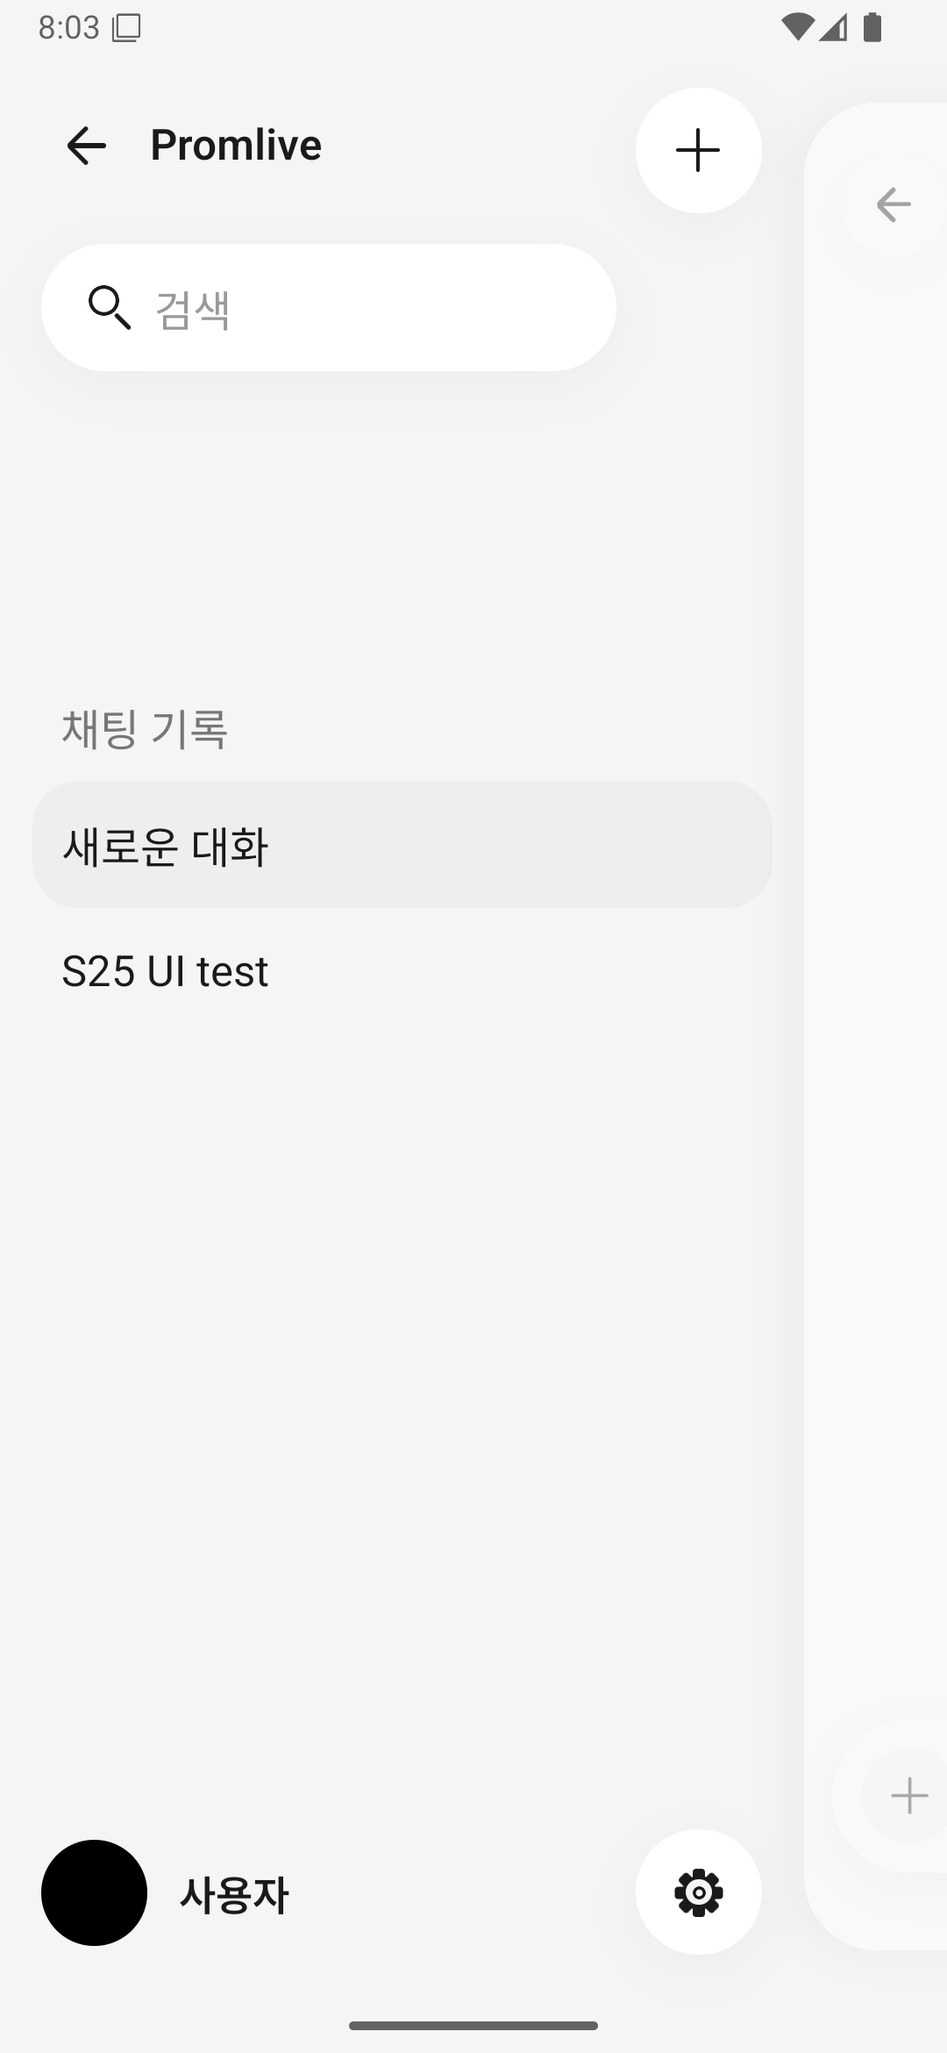
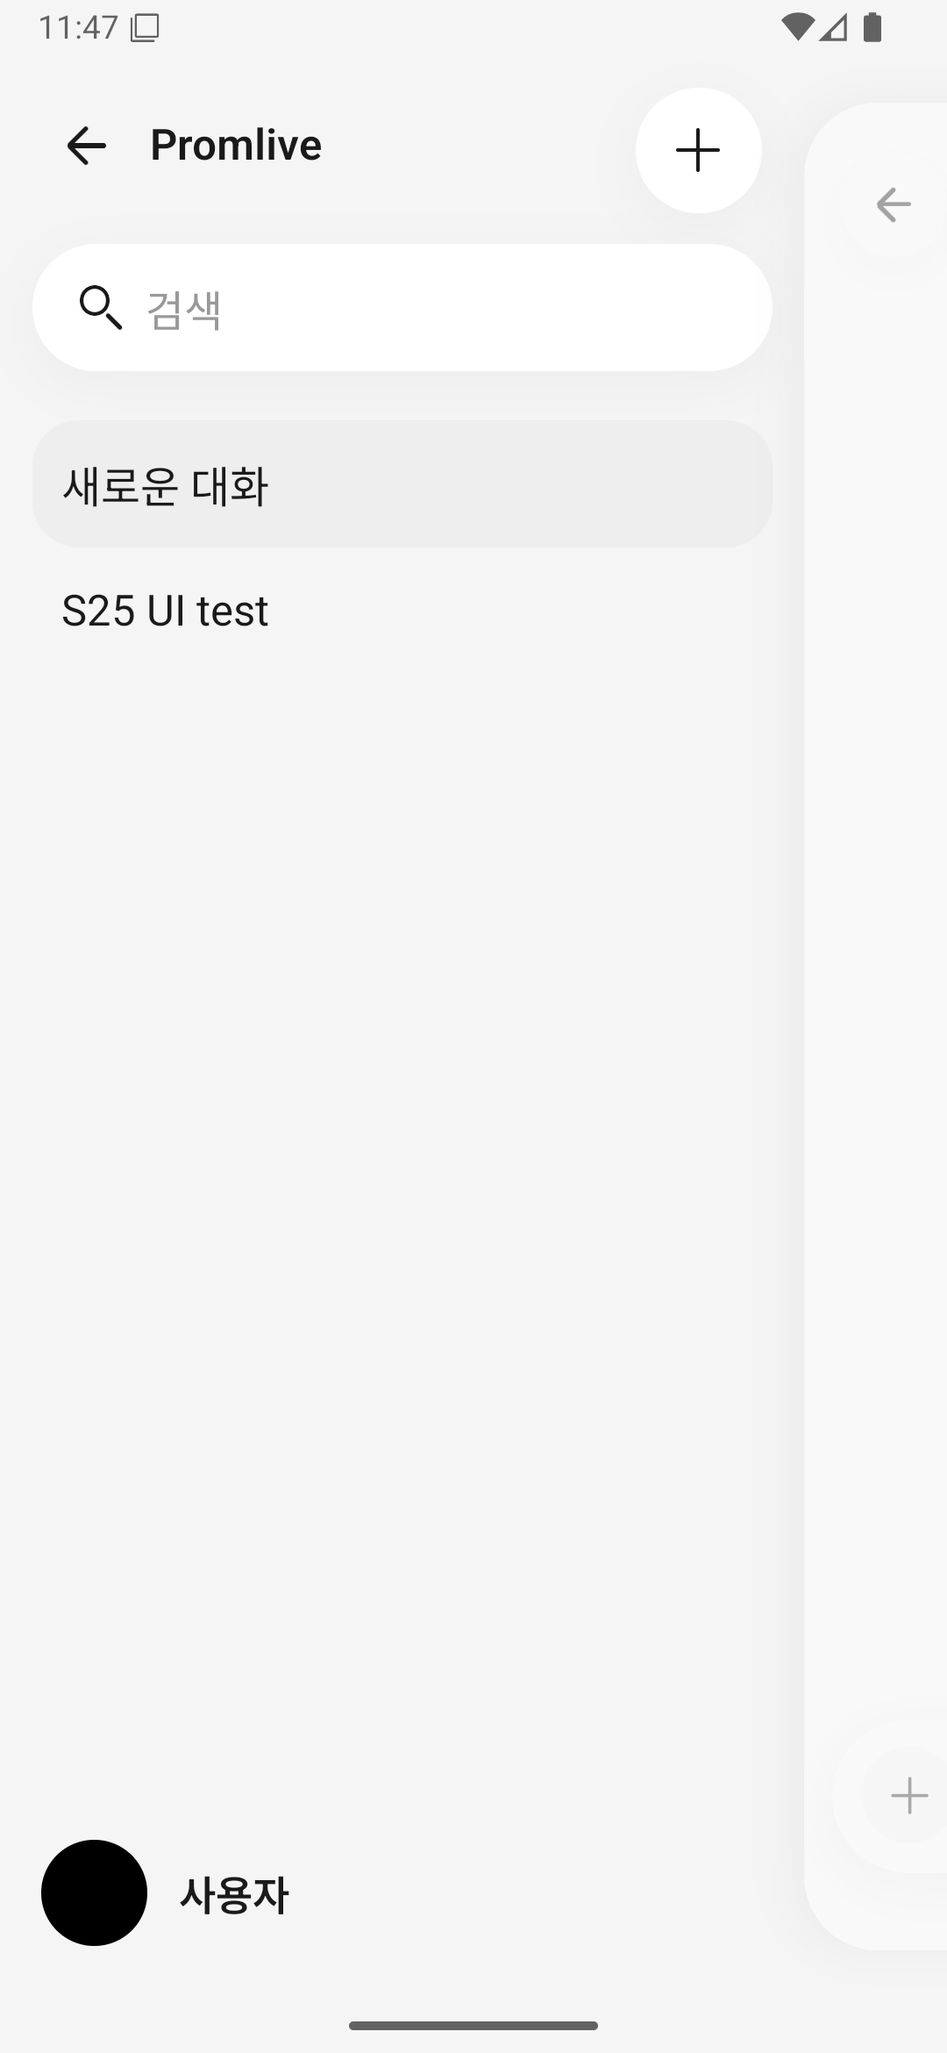
feat: refine sidebar and chat motion

diff --git a/storyloom/src/features/chat/ChatComposer.tsx b/storyloom/src/features/chat/ChatComposer.tsx
@@ -1,5 +1,5 @@
-import {useCallback, useState} from 'react';
-import {Pressable, Text, TextInput, View, useWindowDimensions} from 'react-native';
+import {useCallback, useEffect, useLayoutEffect, useRef, useState} from 'react';
+import {AccessibilityInfo, Animated, Pressable, Text, TextInput, View, useWindowDimensions} from 'react-native';
 import {SafeAreaView} from 'react-native-safe-area-context';
 import {ChatIcon, type ChatIconName} from './ChatIcon';
 import {ComposerInput} from './ComposerInput';
@@ -7,6 +7,7 @@ import {DrawerGestureBoundary} from './DrawerGestureBoundary';
 import {composerScale, referenceComposer as r} from './chatAppearance';
 import {useAppearance} from '../appearance/AppAppearance';
 import {SwipeBackBoundary, SwipeBackModal} from '../settings/SwipeBackModal';
+import {panelSpring} from './usePanelMotion';
 
 interface Props {
   value: string;
@@ -37,22 +38,50 @@ export function ChatComposer(p: Props) {
   const overflowing = filled && measured > inputHeight + 1;
   const expandable = filled && height >= maxHeight - 1;
   const button = r.button * s;
-  const actionBottom = filled ? 14 * s : (height - button) / 2;
+  const hasSend = filled || p.generating;
+  const [reduceMotion, setReduceMotion] = useState<boolean | null>(null);
+  const motion = useRef({
+    height: new Animated.Value(height),
+    input: new Animated.Value(inputHeight),
+    filled: new Animated.Value(filled ? 1 : 0),
+    send: new Animated.Value(hasSend ? 1 : 0),
+  }).current;
+  useEffect(() => {
+    let mounted = true;
+    void AccessibilityInfo.isReduceMotionEnabled().then(value => {if (mounted) setReduceMotion(value);});
+    const change = AccessibilityInfo.addEventListener('reduceMotionChanged', setReduceMotion);
+    return () => {mounted = false; change.remove();};
+  }, []);
+  useLayoutEffect(() => {
+    const targets: [Animated.Value, number][] = [[motion.height, height], [motion.input, inputHeight], [motion.filled, filled ? 1 : 0], [motion.send, hasSend ? 1 : 0]];
+    if (reduceMotion !== false || !p.ready) {
+      for (const [value, target] of targets) {value.stopAnimation(); value.setValue(target);}
+      return;
+    }
+    // Retarget from the current size as typing continues; the bottom edge stays fixed.
+    const animation = Animated.parallel(targets.map(([value, toValue]) => Animated.spring(value, {...panelSpring, toValue, useNativeDriver: false})));
+    animation.start();
+    return () => animation.stop();
+  }, [filled, hasSend, height, inputHeight, motion, p.ready, reduceMotion]);
+  const shape = (empty: number, full: number) => motion.filled.interpolate({inputRange: [0, 1], outputRange: [empty * s, full * s]});
+  const actionBottom = shape((r.compactHeight - r.button) / 2, 14);
   return <>
     <DrawerGestureBoundary><View style={{width: '100%', maxWidth: 800, alignSelf: 'center', paddingHorizontal: r.inset * s, paddingBottom: p.bottom + r.bottom * s}}>
-      <View testID="chat-composer" style={{height, borderRadius: (filled ? 40 : r.compactHeight / 2) * s, backgroundColor: c.composer, borderWidth: 1 * s, borderColor: c.border, boxShadow: isDark ? undefined : '0px 6px 26px rgba(0, 0, 0, 0.08)'}}>
-        <View style={{position: 'absolute', top: filled ? 25 * s : (height - line) / 2, left: (filled ? 26 : 116) * s, right: (filled ? expandable ? 76 : 26 : 116) * s}}>
+      <Animated.View testID="chat-composer" style={{height: motion.height, borderRadius: shape(r.compactHeight / 2, 40), overflow: 'hidden', backgroundColor: c.composer, borderWidth: 1 * s, borderColor: c.border, boxShadow: isDark ? undefined : '0px 6px 26px rgba(0, 0, 0, 0.08)'}}>
+        <Animated.View style={{position: 'absolute', height: motion.input, overflow: 'hidden', top: motion.filled.interpolate({inputRange: [0, 1], outputRange: [(r.compactHeight * s - line) / 2, 25 * s]}), left: (filled ? 26 : 116) * s, right: (filled ? expandable ? 76 : 26 : 116) * s, transform: [{translateX: shape(filled ? 90 : 0, filled ? 0 : -90)}]}}>
           <ComposerInput value={p.value} onChange={p.onChange} onFocus={() => {}} onHeight={reportHeight} fontSize={r.fontSize * s} lineHeight={r.lineHeight * s} height={inputHeight} scroll={overflowing} ready={p.ready}/>
-        </View>
+        </Animated.View>
         {expandable && <Pressable accessibilityRole="button" accessibilityLabel="입력창 크게 열기" hitSlop={8} onPress={() => setExpanded(true)} style={{position: 'absolute', top: 24 * s, right: 29 * s, padding: 3 * s}}><ChatIcon name="expand" size={25 * s} color="#707070"/></Pressable>}
-        <View style={{position: 'absolute', left: (filled ? 12 : 20) * s, bottom: actionBottom}}>
+        <Animated.View style={{position: 'absolute', left: shape(20, 12), bottom: actionBottom}}>
           <Circle label="첨부" icon="plus" size={button} iconSize={27 * s} onPress={() => p.onHint('첨부 기능은 아직 연결하지 않았어요.')}/>
-        </View>
-        <View style={{position: 'absolute', right: (filled ? 13 : 20) * s, bottom: actionBottom, flexDirection: 'row', gap: 13 * s}}>
+        </Animated.View>
+        <Animated.View style={{position: 'absolute', right: shape(20, 13), bottom: actionBottom, flexDirection: 'row'}}>
           <Circle label="음성 입력" icon="voice" size={button} iconSize={30 * s} onPress={() => p.onHint('음성 입력은 아직 연결하지 않았어요.')}/>
-          {(filled || p.generating) && <Circle label={p.generating ? '응답 중단' : '메시지 보내기'} icon={p.generating ? 'stop' : 'send'} size={button} iconSize={25 * s} bright disabled={p.sending || !p.ready || (!p.generating && !p.value.trim())} onPress={p.generating ? p.onCancel : p.onSend}/>}
-        </View>
-      </View>
+          <Animated.View pointerEvents={hasSend ? 'auto' : 'none'} aria-hidden={!hasSend} accessibilityElementsHidden={!hasSend} importantForAccessibility={hasSend ? 'auto' : 'no-hide-descendants'} style={{width: Animated.multiply(motion.send, button), marginLeft: Animated.multiply(motion.send, 13 * s), opacity: motion.send, overflow: 'hidden'}}>
+            <Circle label={p.generating ? '응답 중단' : '메시지 보내기'} icon={p.generating ? 'stop' : 'send'} size={button} iconSize={25 * s} bright disabled={p.sending || !p.ready || (!p.generating && !p.value.trim())} onPress={p.generating ? p.onCancel : p.onSend}/>
+          </Animated.View>
+        </Animated.View>
+      </Animated.View>
     </View></DrawerGestureBoundary>
     {expanded && <SwipeBackModal onClose={() => setExpanded(false)}>{close =>
       <SafeAreaView style={{flex: 1, backgroundColor: c.background, paddingHorizontal: 24}}>

diff --git a/storyloom/src/features/chat/ChatHistory.tsx b/storyloom/src/features/chat/ChatHistory.tsx
@@ -1,5 +1,5 @@
 import {useState} from 'react';
-import {FlatList, Keyboard, Pressable, Text, TextInput, View, useWindowDimensions} from 'react-native';
+import {FlatList, Keyboard, Pressable, Text, TextInput, View} from 'react-native';
 import {useSafeAreaInsets} from 'react-native-safe-area-context';
 import type {Workspace} from '../../app/workspace';
 import type {Card} from '../cards/model';
@@ -24,7 +24,6 @@ export function ChatHistory({workspace: w, width, card, selectedCardId, openCard
   const {colors: c, isDark} = useAppearance();
   const [search, setSearch] = useState('');
   const insets = useSafeAreaInsets();
-  const {height} = useWindowDimensions();
   const s = width / r.width;
   const query = search.trim().toLocaleLowerCase();
   const cards = w.cards.filter(item => !item.archived && `${item.title} ${item.description}`.toLocaleLowerCase().includes(query));
@@ -32,8 +31,7 @@ export function ChatHistory({workspace: w, width, card, selectedCardId, openCard
   const items = (card ? conversations : cards).map(item => ({id: item.id, title: item.title}));
   const selectedId = card ? w.conversation?.id : selectedCardId ?? w.conversation?.cardId;
   const shadow = isDark ? undefined : '0px 6px 24px rgba(0, 0, 0, 0.035)';
-  const availableHeight = height - insets.top - insets.bottom;
-  const listTop = Math.min(r.listTop * s, Math.max(245 * s, availableHeight - 300 * s));
+  const listTop = (r.searchTop + r.searchHeight + r.listGap) * s;
   const select = async (id: string) => {
     Keyboard.dismiss();
     if (!card) {
@@ -54,7 +52,7 @@ export function ChatHistory({workspace: w, width, card, selectedCardId, openCard
     <View style={{height: listTop}}>
       <View style={{position: 'absolute', left: r.textInset * s, top: r.headerTop * s, right: 28 * s, height: r.headerHeight * s, flexDirection: 'row', alignItems: 'center', gap: 18 * s}}>
         {card && <Pressable accessibilityRole="button" accessibilityLabel="카드 목록으로 돌아가기" onPress={backToCards} hitSlop={10} style={{width: 40 * s, height: 60 * s, justifyContent: 'center'}}><ChatIcon name="back" size={32 * s} color={c.text}/></Pressable>}
-        <Text accessibilityRole="header" numberOfLines={1} style={{flex: 1, color: c.text, fontSize: 28 * s, lineHeight: 37 * s, fontWeight: '600', includeFontPadding: false, marginRight: card ? 86 * s : 0}}>{card?.title ?? 'Promlive'}</Text>
+        <Text accessibilityRole="header" numberOfLines={1} style={{flex: 1, color: card ? c.text : c.brand, fontSize: (card ? r.fontSize : r.brandFontSize) * s, lineHeight: (card ? r.lineHeight : r.brandLineHeight) * s, fontWeight: card ? '600' : '800', letterSpacing: card ? 0 : -s, includeFontPadding: false, marginRight: card ? 86 * s : 0}}>{card?.title ?? 'Promlive'}</Text>
       </View>
       {card && <Pressable accessibilityRole="button" accessibilityLabel={`${card.title}에서 새 채팅`} onPress={() => {void start().catch(error => w.report(error));}} style={({pressed}) => ({position: 'absolute', left: r.actionLeft * s, top: r.headerTop * s, width: r.actionSize * s, height: r.actionSize * s, borderRadius: r.actionSize * s / 2, backgroundColor: c.search, opacity: pressed ? 0.6 : 1, boxShadow: shadow, alignItems: 'center', justifyContent: 'center'})}><ChatIcon name="plus" size={29 * s} color={c.text}/></Pressable>}
       <View style={{position: 'absolute', left: r.searchLeft * s, top: r.searchTop * s, width: r.searchWidth * s}}>
@@ -63,7 +61,6 @@ export function ChatHistory({workspace: w, width, card, selectedCardId, openCard
           <TextInput accessibilityLabel={card ? '이 카드의 채팅 검색' : '카드 검색'} value={search} onChangeText={setSearch} placeholder="검색" placeholderTextColor={c.placeholder} selectionColor="#3096EB" underlineColorAndroid="transparent" returnKeyType="search" style={{flex: 1, minWidth: 0, padding: 0, color: c.text, height: r.searchHeight * s, fontSize: 27 * s, includeFontPadding: false}}/>
         </View></DrawerGestureBoundary>
       </View>
-      <Text testID="sidebar-list-heading" style={{position: 'absolute', left: r.textInset * s, bottom: (r.listTop - r.labelTop - r.lineHeight) * s, color: c.muted, fontSize: r.fontSize * s, lineHeight: r.lineHeight * s, includeFontPadding: false}}>{card ? '채팅 기록' : '카드 목록'}</Text>
     </View>
     <FlatList
       testID={card ? 'card-conversation-list' : 'card-list'} data={items} keyExtractor={item => item.id} style={{flex: 1}}
@@ -75,11 +72,10 @@ export function ChatHistory({workspace: w, width, card, selectedCardId, openCard
       </Pressable>}
     />
     <View testID="sidebar-footer" style={{height: (r.footerHeight + r.footerBottom) * s}}>
-      <Pressable testID="sidebar-account" accessibilityRole="button" accessibilityLabel="사용자 계정" onPress={openSettings} style={({pressed}) => ({position: 'absolute', left: r.searchLeft * s, top: 0, width: r.searchWidth * s, height: r.footerHeight * s, flexDirection: 'row', alignItems: 'center', opacity: pressed ? 0.6 : 1})}>
+      <Pressable testID="sidebar-account" accessibilityRole="button" accessibilityLabel="사용자 계정" accessibilityHint="설정 열기" onPress={openSettings} style={({pressed}) => ({position: 'absolute', left: r.rowInset * s, right: r.rowInset * s, top: 0, height: r.footerHeight * s, paddingHorizontal: (r.accountAvatarLeft - r.rowInset) * s, flexDirection: 'row', alignItems: 'center', opacity: pressed ? 0.6 : 1})}>
         <View accessible={false} style={{width: r.avatar * s, height: r.avatar * s, borderRadius: r.avatar * s / 2, backgroundColor: '#000000'}}/>
-        <Text numberOfLines={1} style={{flex: 1, marginLeft: (r.accountNameLeft - r.searchLeft - r.avatar) * s, color: c.text, fontSize: 26 * s, lineHeight: 35 * s, fontWeight: '600', includeFontPadding: false}}>사용자</Text>
+        <Text numberOfLines={1} style={{flex: 1, marginLeft: (r.accountNameLeft - r.accountAvatarLeft - r.avatar) * s, color: c.text, fontSize: 26 * s, lineHeight: 35 * s, fontWeight: '600', includeFontPadding: false}}>사용자</Text>
       </Pressable>
-      <Pressable testID="sidebar-settings" accessibilityRole="button" accessibilityLabel="설정" onPress={openSettings} style={({pressed}) => ({position: 'absolute', left: r.actionLeft * s, top: 0, width: r.actionSize * s, height: r.actionSize * s, borderRadius: r.actionSize * s / 2, alignItems: 'center', justifyContent: 'center', backgroundColor: c.search, opacity: pressed ? 0.6 : 1, boxShadow: shadow})}><ChatIcon name="settings" size={31 * s} color={c.text}/></Pressable>
     </View>
   </View>;
 }

diff --git a/storyloom/src/features/chat/ChatDrawer.tsx b/storyloom/src/features/chat/ChatDrawer.tsx
@@ -7,7 +7,7 @@ import {useAppearance} from '../appearance/AppAppearance';
 import {drawerProgress, navigationPanel, shouldOpenDrawer, type NavigationPanel} from './drawerMotion';
 import {useScreenCorners} from './useScreenCorners';
 import {DrawerGestureGuard} from './DrawerGestureBoundary';
-import {referenceSidebar} from './chatAppearance';
+import {sidebarWidth} from './chatAppearance';
 import {usePanelMotion} from './usePanelMotion';
 
 const openScale = 0.90;
@@ -23,7 +23,7 @@ export function ChatDrawer({workspace, children, openSettings, active = true, po
 }) {
   const {colors: c, isDark} = useAppearance();
   const {width} = useWindowDimensions();
-  const drawerWidth = Math.min(width * referenceSidebar.width / referenceSidebar.viewportWidth, 400);
+  const drawerWidth = sidebarWidth(width);
   const corners = useScreenCorners();
   const [reduceMotion, setReduceMotion] = useState(false);
   const cards = usePanelMotion(reduceMotion);
@@ -143,15 +143,14 @@ export function ChatDrawer({workspace, children, openSettings, active = true, po
         ],
       }]}>
         <View style={styles.content} pointerEvents={cards.visible ? 'none' : 'auto'} aria-hidden={cards.visible} accessibilityElementsHidden={cards.visible} importantForAccessibility={cards.visible ? 'no-hide-descendants' : 'auto'}>
-          <Animated.View testID="chat-page" pointerEvents={pocket.visible ? 'none' : 'auto'} aria-hidden={pocket.visible} accessibilityElementsHidden={pocket.visible} importantForAccessibility={pocket.visible ? 'no-hide-descendants' : 'auto'} style={[styles.panel, {backgroundColor: c.background,
+          <Animated.View testID="chat-pocket-pages" style={[styles.pages, {width: pocketEnabled ? width * 2 : width, backgroundColor: c.background,
             borderTopLeftRadius: pageRadius(corners.topLeft), borderTopRightRadius: pageRadius(corners.topRight), borderBottomLeftRadius: pageRadius(corners.bottomLeft), borderBottomRightRadius: pageRadius(corners.bottomRight),
             transform: [{translateX: Animated.multiply(pocket.progress, -width)}],
-          }]}>{children(openCards)}</Animated.View>
-          {pocketEnabled && pocket.visible && <Animated.View testID="pocket-page" accessible accessibilityLabel={`${activeCard?.title ?? '현재 카드'} 포켓`} accessibilityHint="오른쪽으로 밀면 채팅으로 돌아갑니다." onAccessibilityEscape={() => pocket.settle(false)} style={[styles.panel, {backgroundColor: c.background,
-            // Mirror the chat's edge curves, including asymmetric device corners.
-            borderTopLeftRadius: pageRadius(corners.topRight), borderTopRightRadius: pageRadius(corners.topLeft), borderBottomLeftRadius: pageRadius(corners.bottomRight), borderBottomRightRadius: pageRadius(corners.bottomLeft),
-            transform: [{translateX: pocket.progress.interpolate({inputRange: [0, 1], outputRange: [width, 0]})}],
-          }]}/>}
+          }]}>
+            {/* One continuous surface: only its four outside corners are rounded. */}
+            <View testID="chat-page" pointerEvents={pocket.visible ? 'none' : 'auto'} aria-hidden={pocket.visible} accessibilityElementsHidden={pocket.visible} importantForAccessibility={pocket.visible ? 'no-hide-descendants' : 'auto'} style={[styles.page, {left: 0, width}]}>{children(openCards)}</View>
+            {pocketEnabled && pocket.visible && <View testID="pocket-page" accessible accessibilityLabel={`${activeCard?.title ?? '현재 카드'} 포켓`} accessibilityHint="오른쪽으로 밀면 채팅으로 돌아갑니다." onAccessibilityEscape={() => pocket.settle(false)} style={[styles.page, {left: width, width}]}/>}
+          </Animated.View>
         </View>
         <Animated.View testID="chat-preview-scrim" pointerEvents="none" accessible={false} style={[StyleSheet.absoluteFill, {backgroundColor: c.drawer, opacity: cards.progress.interpolate({inputRange: [0, 1], outputRange: [0, previewScrimOpacity], extrapolate: 'clamp'})}]}/>
         {cards.visible && <Pressable testID="chat-drawer-close" accessibilityRole="button" accessibilityLabel="채팅으로 돌아가기" onPress={closeCards} style={StyleSheet.absoluteFill}/>}
@@ -160,4 +159,10 @@ export function ChatDrawer({workspace, children, openSettings, active = true, po
   </DrawerGestureGuard.Provider>;
 }
 
-const styles = StyleSheet.create({root: {flex: 1, overflow: 'hidden'}, panel: {...StyleSheet.absoluteFillObject, overflow: 'hidden'}, content: {flex: 1}});
+const styles = StyleSheet.create({
+  root: {flex: 1, overflow: 'hidden'},
+  panel: {...StyleSheet.absoluteFillObject, overflow: 'hidden'},
+  pages: {position: 'absolute', top: 0, bottom: 0, left: 0, overflow: 'hidden'},
+  page: {position: 'absolute', top: 0, bottom: 0, overflow: 'hidden'},
+  content: {flex: 1},
+});

diff --git a/storyloom/src/features/settings/SwipeBackModal.tsx b/storyloom/src/features/settings/SwipeBackModal.tsx
@@ -2,6 +2,7 @@ import {createContext, useCallback, useContext, useEffect, useMemo, useRef, useS
 import {AccessibilityInfo, Animated, Keyboard, Modal, PanResponder, Platform, StyleSheet, View, useWindowDimensions, type StyleProp, type ViewStyle} from 'react-native';
 import {SafeAreaProvider} from 'react-native-safe-area-context';
 import {selectionHaptic} from '../chat/selectionHaptic';
+import {panelSpring} from '../chat/usePanelMotion';
 import {useScreenCorners} from '../chat/useScreenCorners';
 import {syncSystemBars, useAppearance} from '../appearance/AppAppearance';
 
@@ -64,8 +65,7 @@ export function SwipeBackModal({onClose, children, sheet = false, active = true}
       return;
     }
     Animated.spring(progress, {
-      toValue: 0, stiffness: 260, damping: 32, mass: 1, overshootClamping: true,
-      restDisplacementThreshold: 0.001, restSpeedThreshold: 0.001,
+      ...panelSpring, toValue: 0,
       useNativeDriver: Platform.OS !== 'web',
     }).start(({finished}) => {if (finished) opening.current = false;});
   }, [progress, reduceMotion, shown]);
@@ -84,13 +84,8 @@ export function SwipeBackModal({onClose, children, sheet = false, active = true}
       return;
     }
     Animated.spring(progress, {
+      ...panelSpring,
       toValue: back ? 1 : 0,
-      stiffness: 260,
-      damping: 32,
-      mass: 1,
-      overshootClamping: true,
-      restDisplacementThreshold: 0.001,
-      restSpeedThreshold: 0.001,
       useNativeDriver: Platform.OS !== 'web',
     }).start(({finished}) => {if (finished && back) onCloseRef.current();});
   }, [progress, reduceMotion]);

diff --git a/storyloom/src/features/chat/chatAppearance.ts b/storyloom/src/features/chat/chatAppearance.ts
@@ -49,16 +49,21 @@ export const darkChatColors = {
   noticeBorder: '#484848',
 };
 
-/** Sidebar geometry in photo_6156823455928619208_y.jpg (618 × 1280). */
+/** Reference sidebar proportions with the requested compact, full-width search layout. */
 export const referenceSidebar = {
   viewportWidth: 618, width: 525,
   headerTop: 21, headerHeight: 76,
-  searchTop: 123, searchLeft: 27, searchWidth: 375, searchHeight: 83,
-  labelTop: 420, listTop: 473,
+  brandFontSize: 44, brandLineHeight: 54,
+  searchTop: 123, searchLeft: 21, searchWidth: 483, searchHeight: 83,
+  listGap: 32,
   rowInset: 21, textInset: 40, rowHeight: 83, rowRadius: 30, fontSize: 28, lineHeight: 37,
-  footerBottom: 27, footerHeight: 83, avatar: 69, accountNameLeft: 117,
+  footerBottom: 27, footerHeight: 83, avatar: 69, accountAvatarLeft: 27, accountNameLeft: 117,
   actionLeft: 415, actionSize: 82,
 } as const;
+
+export function sidebarWidth(viewportWidth: number) {
+  return Math.min(viewportWidth * referenceSidebar.width / referenceSidebar.viewportWidth, 400);
+}
 
 export type ChatColors = typeof darkChatColors;
 

diff --git a/storyloom/src/features/chat/usePanelMotion.ts b/storyloom/src/features/chat/usePanelMotion.ts
@@ -2,6 +2,11 @@ import {useCallback, useEffect, useRef, useState} from 'react';
 import {Animated, Keyboard, Platform} from 'react-native';
 import {selectionHaptic} from './selectionHaptic';
 
+export const panelSpring = {
+  stiffness: 260, damping: 32, mass: 1, overshootClamping: true,
+  restDisplacementThreshold: 0.001, restSpeedThreshold: 0.001,
+} as const;
+
 /** Shared spring and touch tracking for adjacent panels. */
 export function usePanelMotion(reduceMotion: boolean) {
   const progress = useRef(new Animated.Value(0)).current;
@@ -35,8 +40,7 @@ export function usePanelMotion(reduceMotion: boolean) {
       return;
     }
     Animated.spring(progress, {
-      toValue: open ? 1 : 0, stiffness: 260, damping: 32, mass: 1, overshootClamping: true,
-      restDisplacementThreshold: 0.001, restSpeedThreshold: 0.001,
+      ...panelSpring, toValue: open ? 1 : 0,
       useNativeDriver: Platform.OS !== 'web',
     }).start(({finished}) => {if (finished && !open && !target.current) setVisible(false);});
   }, [progress, reduceMotion]);
